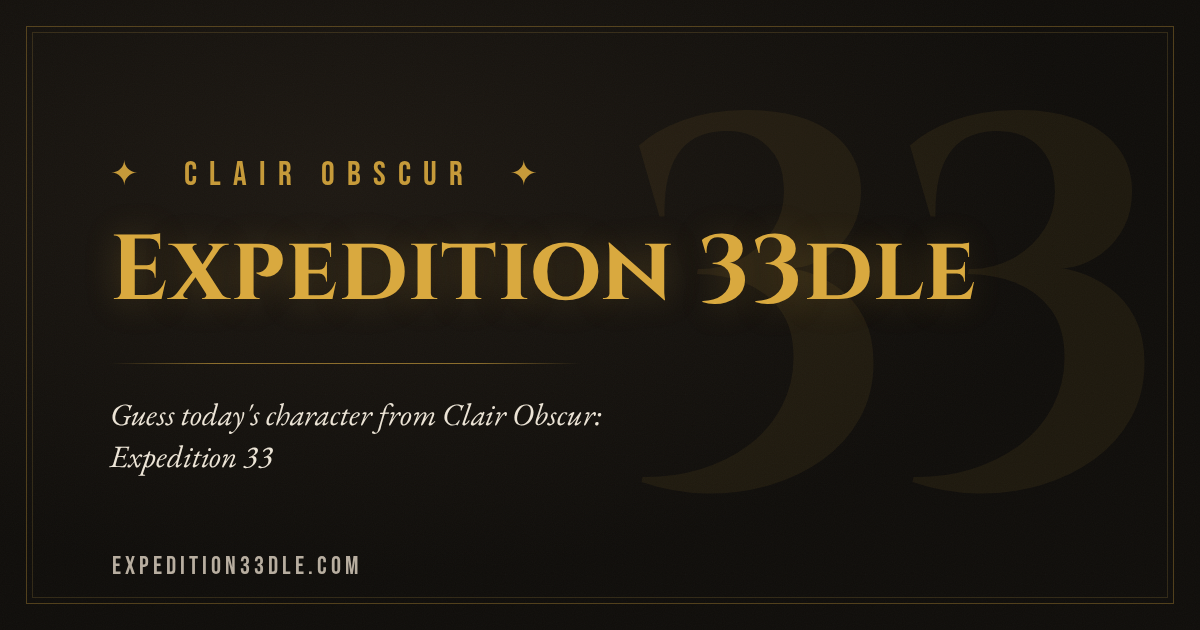
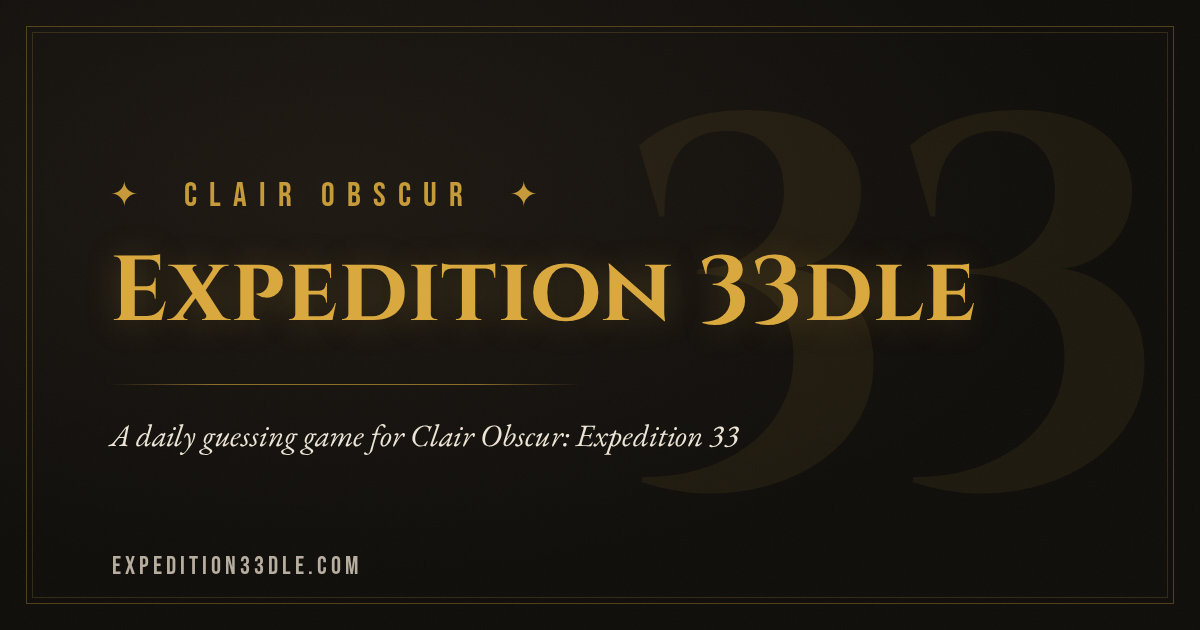
preload fonts to cut FOUT and make brand copy mode-agnostic

diff --git a/client/index.html b/client/index.html
@@ -5,14 +5,23 @@
     <link rel="icon" type="image/svg+xml" href="/favicon.svg" />
     <meta name="viewport" content="width=device-width, initial-scale=1.0" />
     <title>Expedition 33dle</title>
+    <!-- Preload the faces that paint above the fold so the browser fetches them
+         in parallel with the CSS instead of after parsing it — shrinks the
+         font-swap (FOUT) flash on a hard refresh. Stable /fonts URLs (public/)
+         survive Vite asset hashing. crossorigin is required: font fetches use
+         anonymous CORS even same-origin; omitting it wastes the preload. -->
+    <link rel="preload" href="/fonts/cinzel-latin-700.woff2" as="font" type="font/woff2" crossorigin />
+    <link rel="preload" href="/fonts/eb-garamond-latin-400.woff2" as="font" type="font/woff2" crossorigin />
+    <link rel="preload" href="/fonts/eb-garamond-latin-400-italic.woff2" as="font" type="font/woff2" crossorigin />
+    <link rel="preload" href="/fonts/bebas-neue-latin-400.woff2" as="font" type="font/woff2" crossorigin />
     <meta
       name="description"
-      content="A daily character guessing game for Clair Obscur: Expedition 33. New puzzle every day at midnight UTC."
+      content="A daily guessing game for Clair Obscur: Expedition 33. New puzzle every day at midnight UTC."
     />
     <meta property="og:title" content="Expedition 33dle" />
     <meta
       property="og:description"
-      content="A daily character guessing game for Clair Obscur: Expedition 33. New puzzle every day at midnight UTC."
+      content="A daily guessing game for Clair Obscur: Expedition 33. New puzzle every day at midnight UTC."
     />
     <meta property="og:image" content="https://expedition33dle.com/og-image.png" />
     <meta property="og:url" content="https://expedition33dle.com" />
@@ -21,7 +30,7 @@
     <meta name="twitter:title" content="Expedition 33dle" />
     <meta
       name="twitter:description"
-      content="A daily character guessing game for Clair Obscur: Expedition 33. New puzzle every day at midnight UTC."
+      content="A daily guessing game for Clair Obscur: Expedition 33. New puzzle every day at midnight UTC."
     />
     <meta name="twitter:image" content="https://expedition33dle.com/og-image.png" />
   </head>

diff --git a/client/og/og-image.html b/client/og/og-image.html
@@ -82,7 +82,7 @@ h1 {
 <div class="kicker">✦ &nbsp;Clair Obscur&nbsp; ✦</div>
 <h1>Expedition 33dle</h1>
 <div class="rule"></div>
-<p class="tag">Guess today's character from Clair&nbsp;Obscur: Expedition&nbsp;33</p>
+<p class="tag">A daily guessing game for Clair&nbsp;Obscur: Expedition&nbsp;33</p>
 <div class="url">expedition33dle.com</div>
 </body>
 </html>
